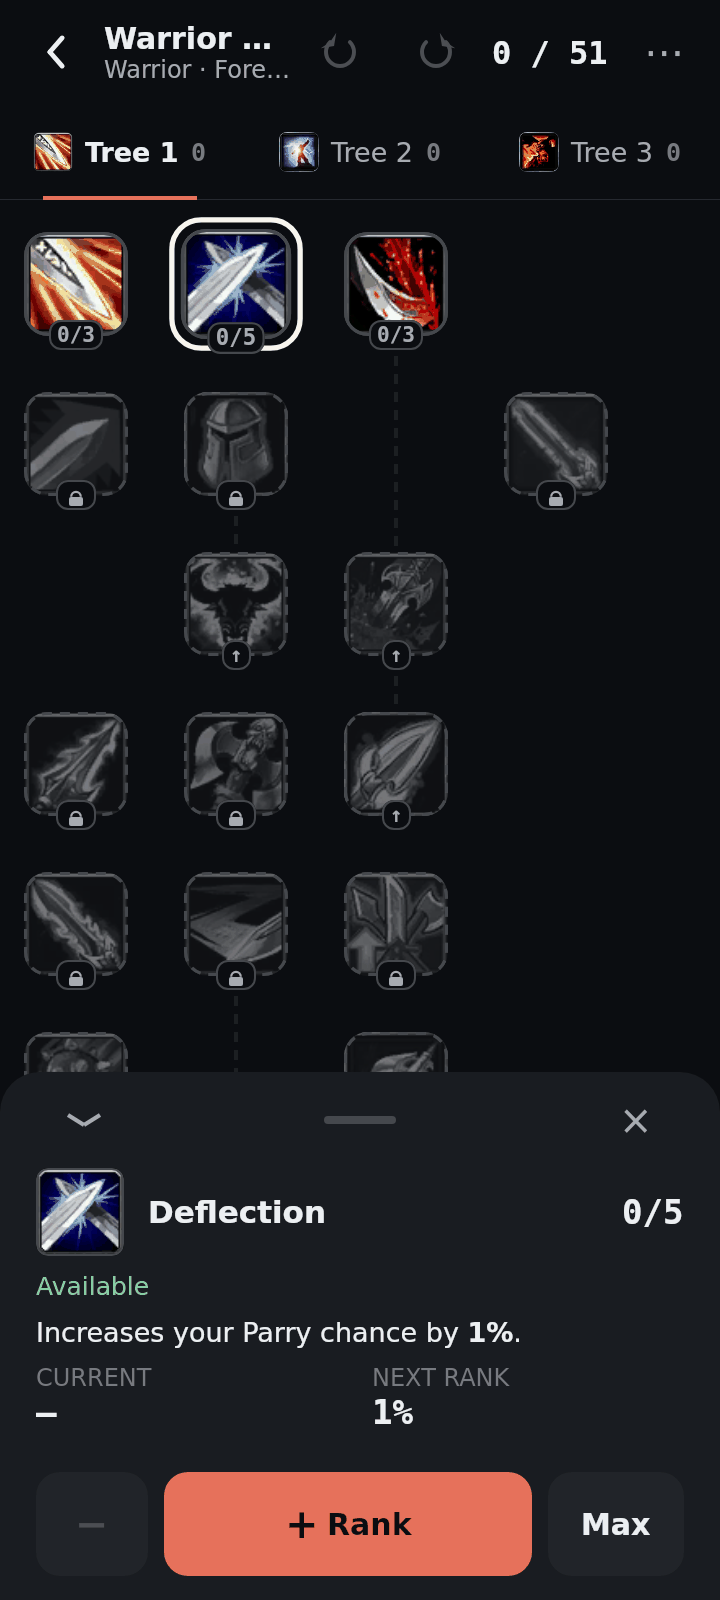
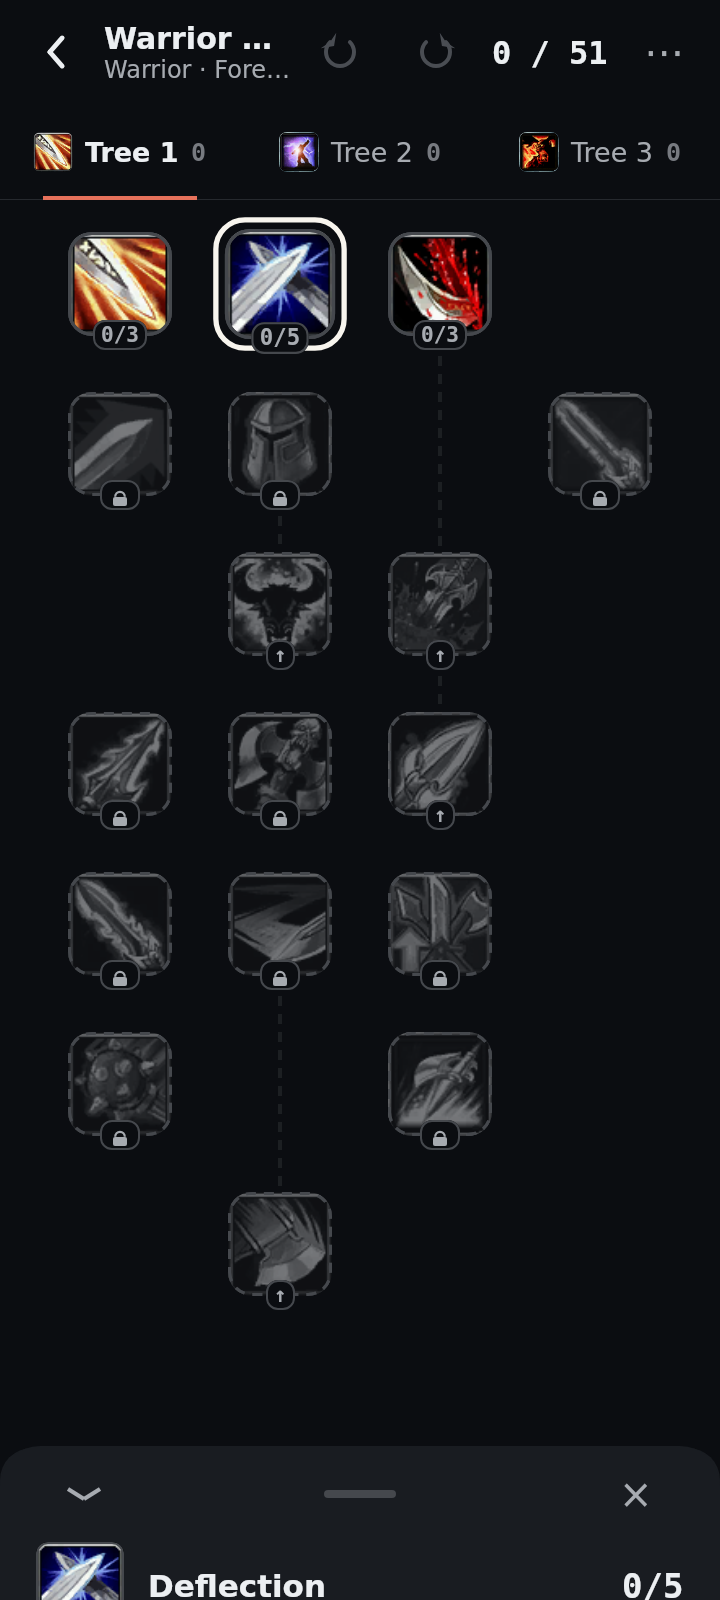
docs(mobile): PR #19 motion architecture and recording
Claude-Session: https://claude.ai/code/session_01PrRW91Cug143bfgGuLFWqE

diff --git a/docs/mobile-architecture.md b/docs/mobile-architecture.md
@@ -453,6 +453,51 @@ entry is gone; the baseline Warrior loader remains as the tests' fixture.
     Esc in the desktop window), which makes the order testable; iOS has no
     system Back.
 
+- **PR #19 motion** (`TalentSectionPaging.kt`, all values implementation-safe).
+  It replaces the 1A v2 S4 tab-change entry (180 ms fade + 24 dp shift of the
+  new section only) at the brief's request:
+  - section pages. Every section change — tab, swipe, cross-section Show,
+    Back chip — calls `TalentSectionPager.switchTo` in the same event that
+    changes `cameras.selectedSection`. From the first frame both pages are
+    composed: the new active page starts where the gesture left it (one page
+    off for a tap) and both ease to rest (260 ms for a whole page,
+    proportionally less after a swipe, never below 120 ms;
+    `cubic(.2, .8, .2, 1)`). The old page leaves towards the gesture, and the
+    new one arrives from the chosen tab's side (RTL mirrored);
+  - finger-follow. The canvas's single gesture handler publishes
+    `sectionOverscrollDp` (finger travel at FIT, overscroll when zoomed).
+    `talentSectionDragFrame` turns it into page offsets: the active page
+    follows 1:1 and the neighbour comes in from the opposite edge, while the
+    first and last section only rubber-band. At the release the canvas
+    reports `(direction, releaseDragDp)`: a confirmed swipe continues from
+    the release, and an unconfirmed (or system-cancelled) one eases back
+    (`settleBack`);
+  - one interactive canvas. Pages are keyed by section, so a page keeps its
+    instance as it changes role. Only the active page has pointer input and
+    node semantics (`interactive`); the other is drawn only. The offset is
+    applied after the pointer input, so it never shifts gesture coordinates.
+    A touch on the pages (Initial pass, nothing consumed) or a new switch
+    ends a running transition at once: fast swipes and tab taps never queue.
+    The neighbours' cameras are fitted ahead of time with `prepare` (an
+    existing camera is never reset), and no camera, `BuildState` or autosave
+    is touched by the motion;
+  - tab indicator. `TalentTreeSectionTabs(indicatorPosition = …)` reads
+    `talentSectionIndicatorPosition` at layout time, so it travels with the
+    visible share of the pages. The label emphasis follows the mostly shown
+    tab, while the `selected` semantics stay the logical section;
+  - inspector sheet. It slides up from the strip's top edge and back down
+    (240 ms, the same curve) by `graphicsLayer` translation only. Its layout,
+    and therefore the measured covered height and `TalentInspectorRevealTracker`,
+    is the final geometry from the first measured frame, so the camera
+    reveals the talent once and never per animation frame. A closing sheet
+    is a picture: no semantics and no input, with the strip already back
+    underneath;
+  - reduced motion. `prefersReducedMotion()` (expect/actual: Android
+    `ANIMATOR_DURATION_SCALE` = 0, iOS Reduce Motion, desktop none;
+    `LocalReducedMotion` overrides it in tests) makes pages, the sheet and the
+    compact strip's entry instant. Finger-follow stays (direct
+    manipulation), and every action works the same.
+
 ### `iosApp`
 
 Thin native iOS host. A SwiftUI `App`/`UIViewControllerRepresentable` pair that
